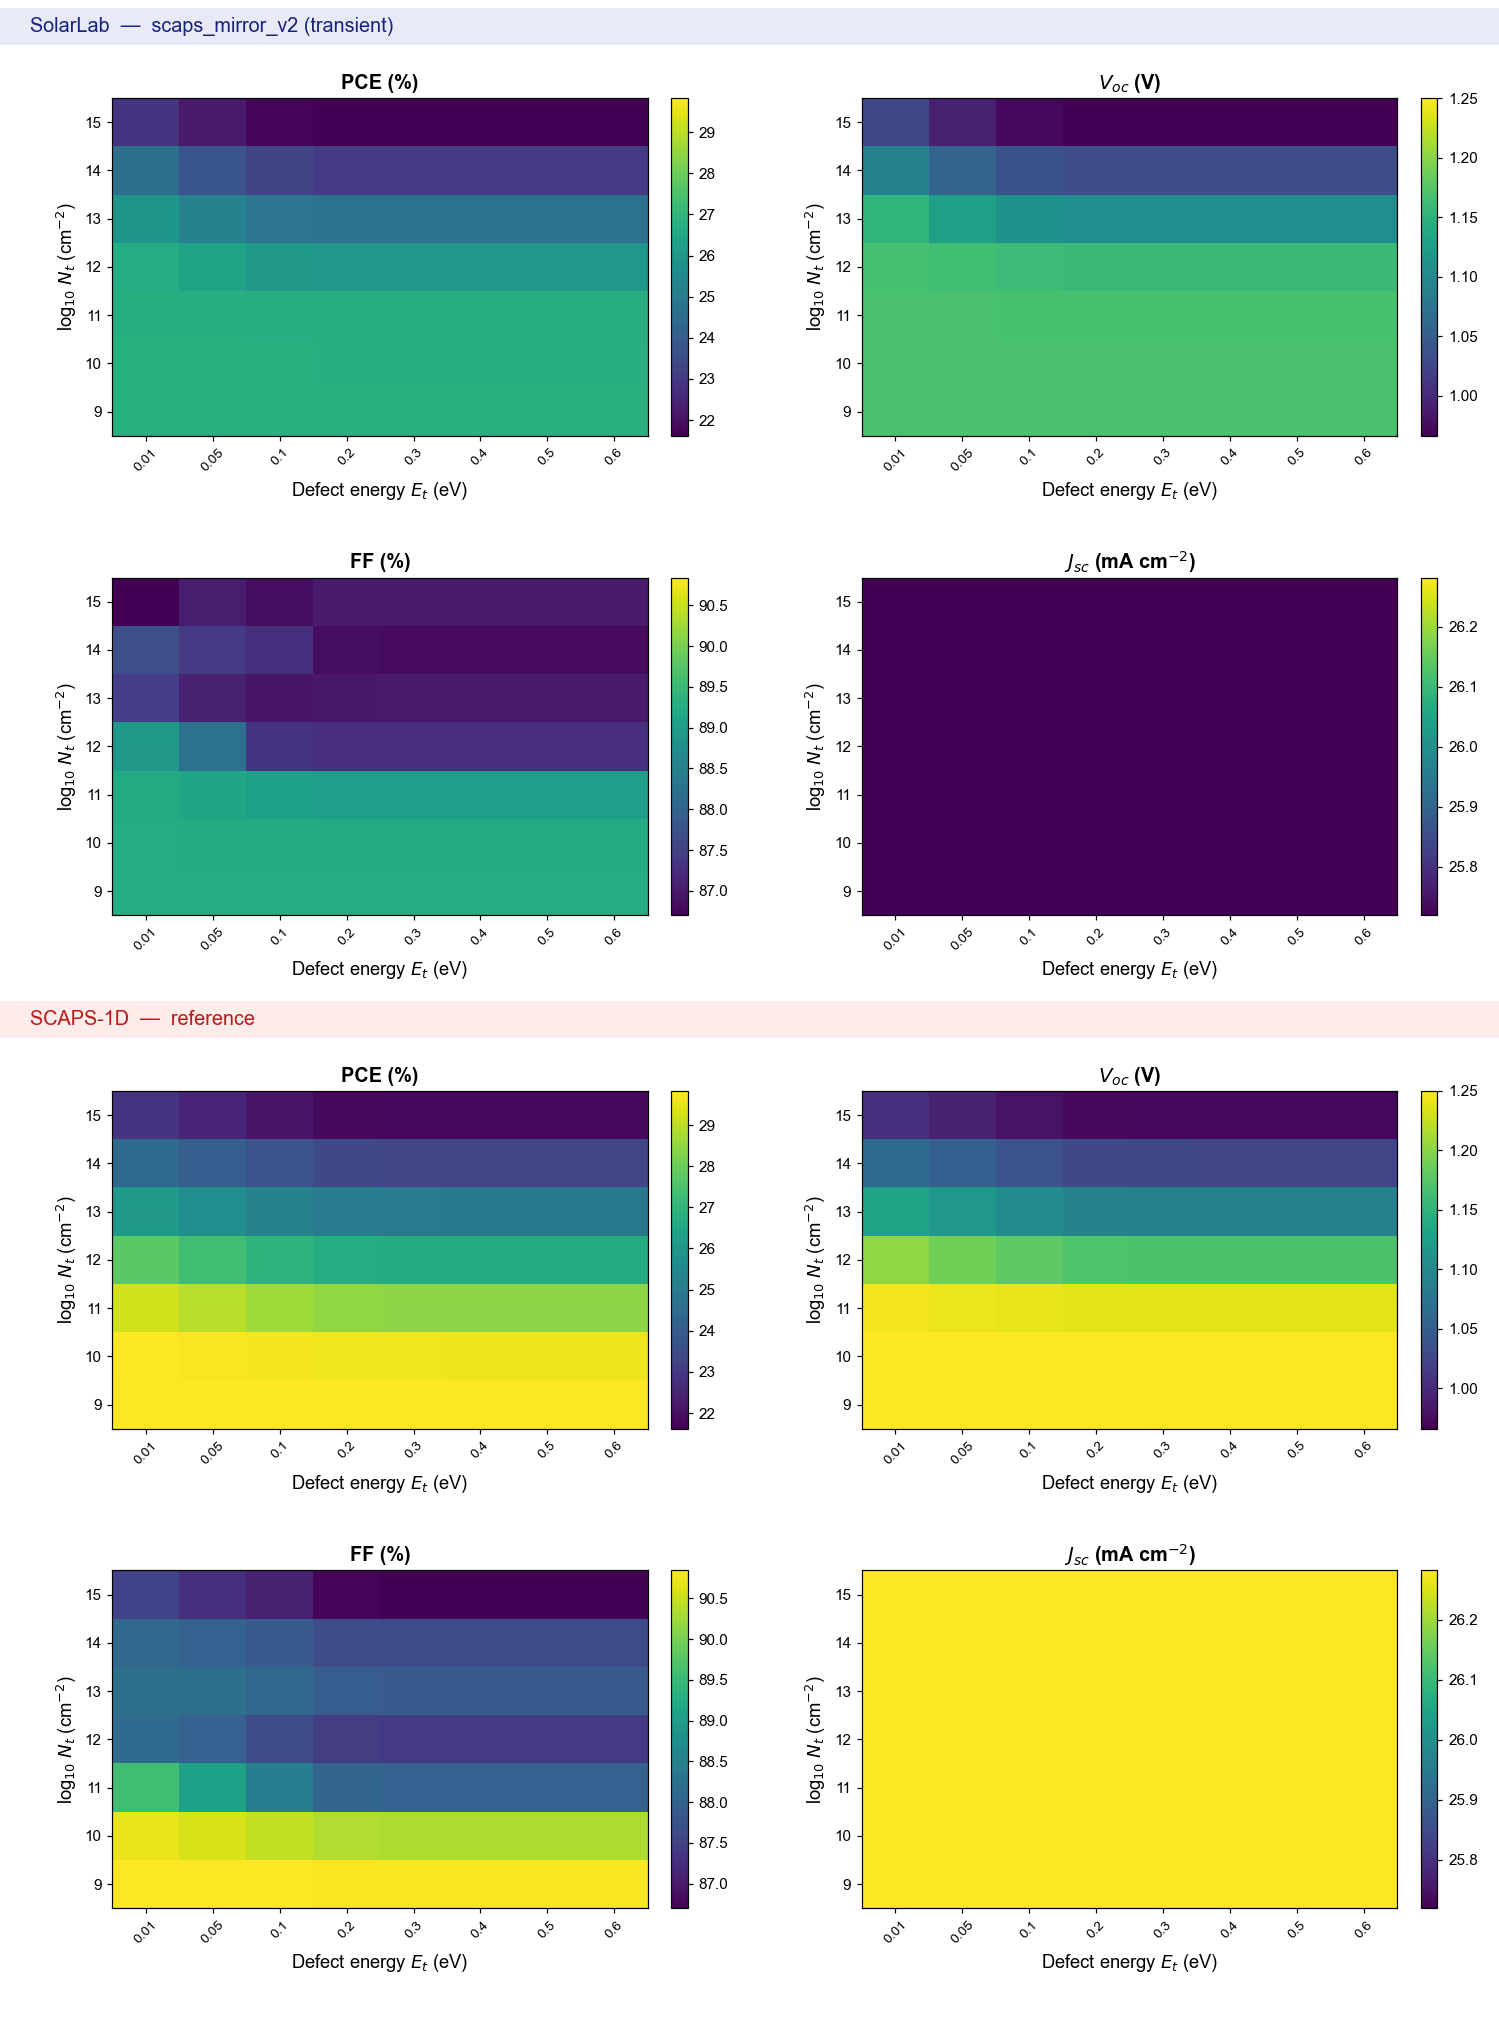
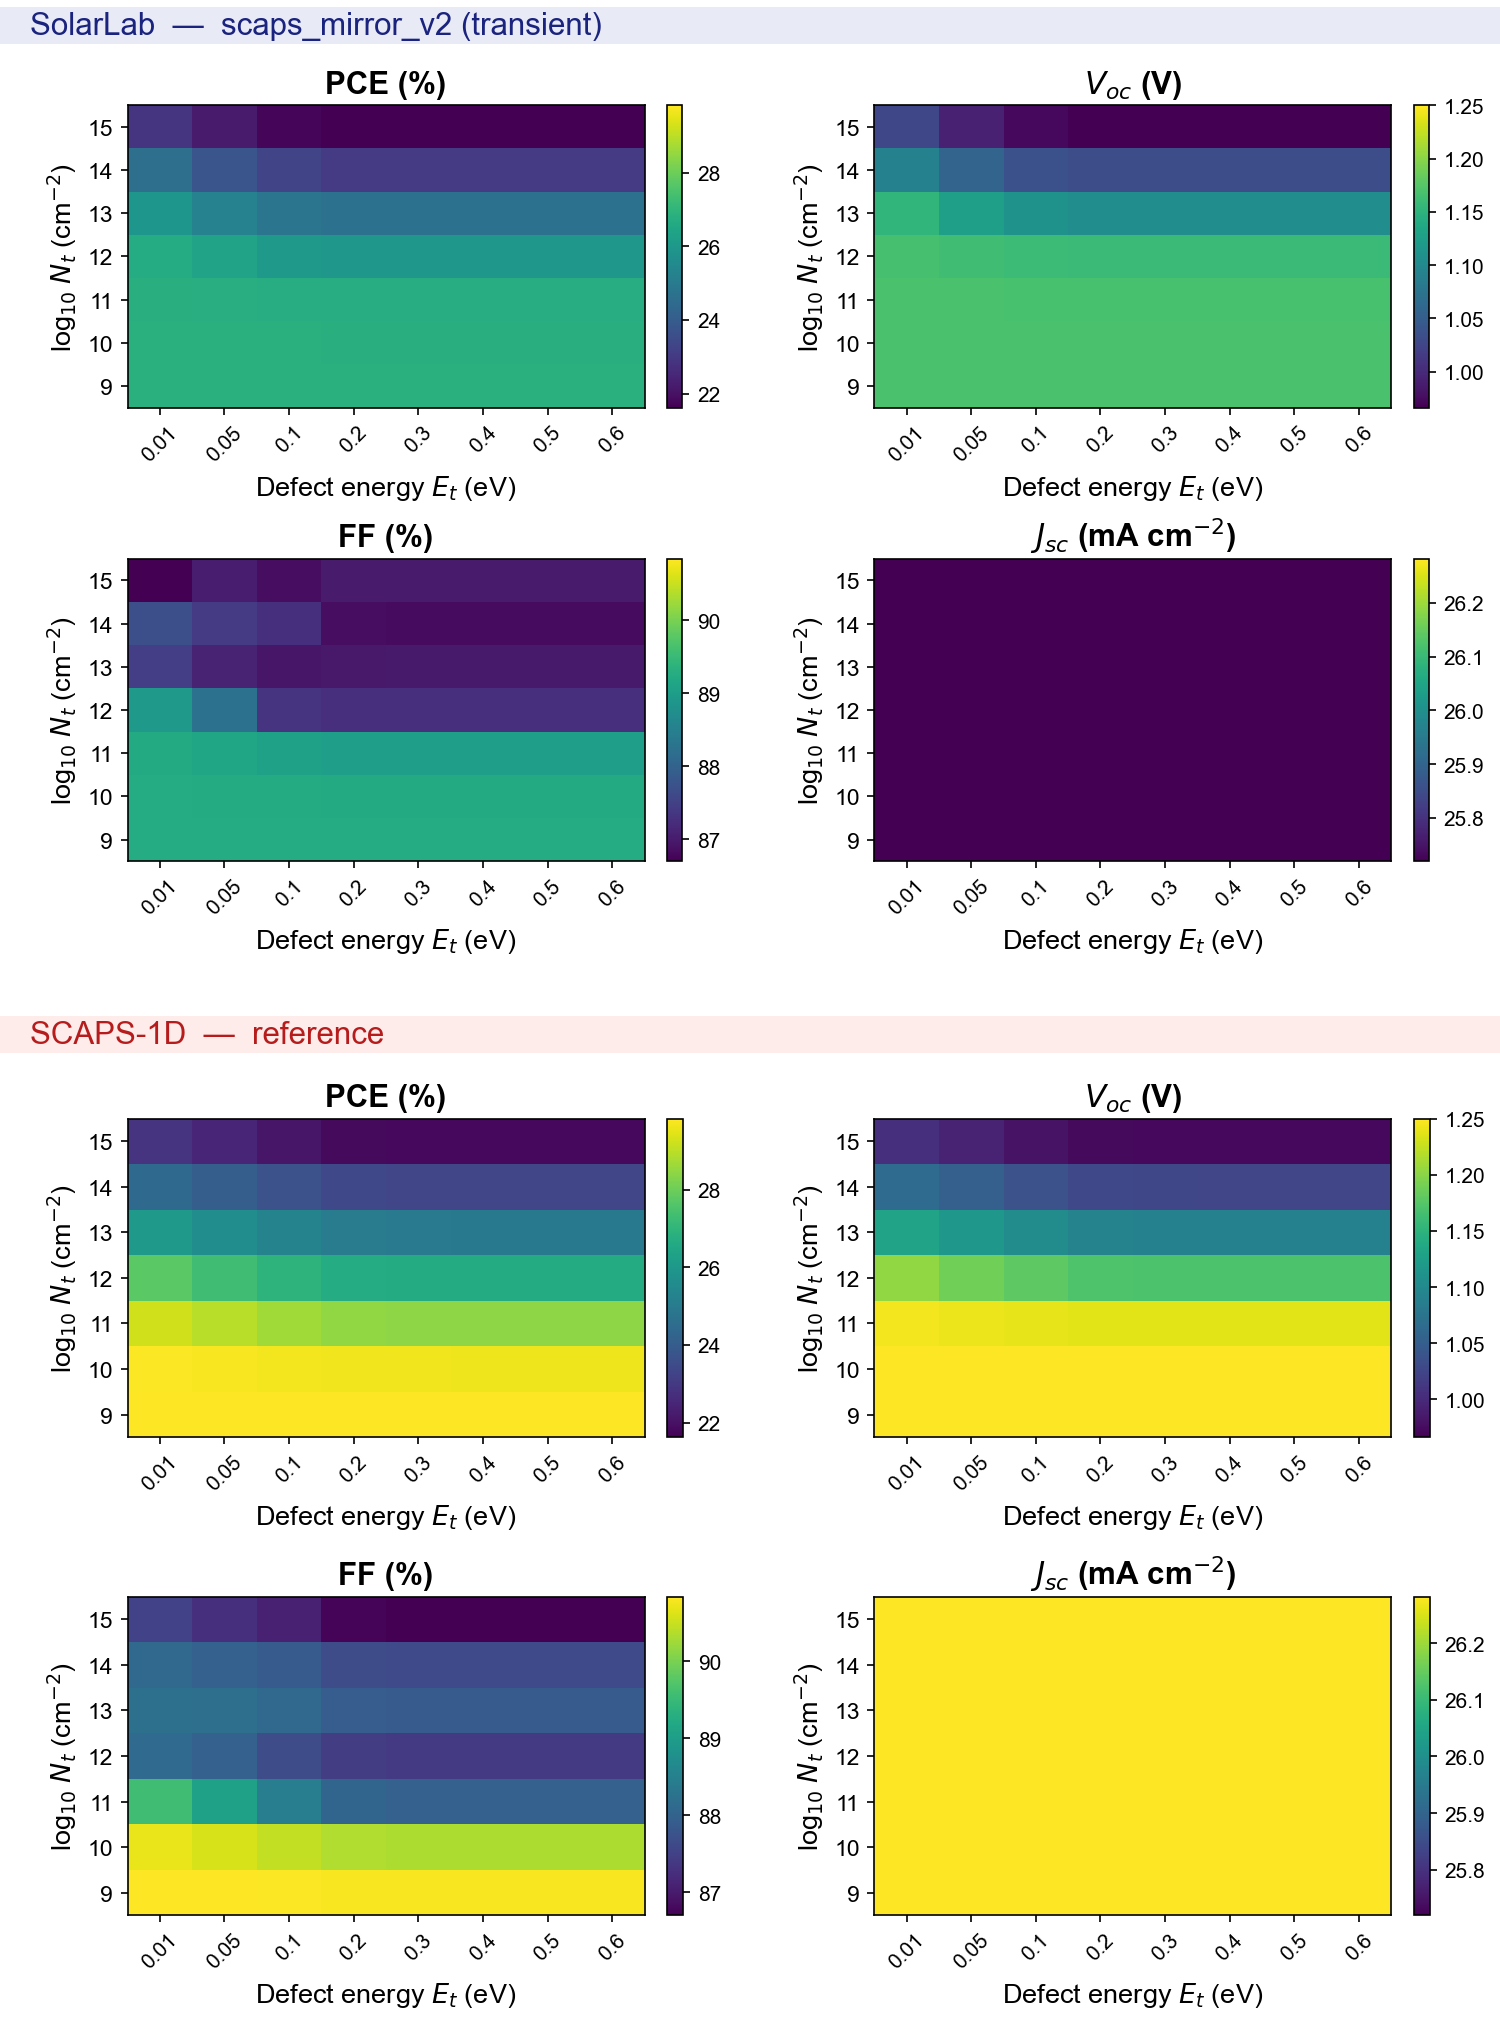
fix(reference): enlarge 2D-scan figure text for in-document legibility
Figure fonts were sized for a 13.6-inch canvas printed at 0.62 textwidth
(~4 in), leaving ~4 pt effective tick labels. Canvas reduced to 10x13.62
inches with larger fonts (titles 15 pt bold, labels 13 pt, ticks 10-11 pt,
dpi 150 keeps the 1500x2043 pixel output), and the report now places both
figures at 0.80 textwidth — chosen so heading, figure and caption still
fit one page (0.88 pushed Figure 1 to the next page, leaving a blank one).
Block spacing nudged so bottom-row x-labels clear the SCAPS banner.

Confidence: high
Scope-risk: narrow

Changed region(s): [[0.0307, 0.0, 0.491, 0.9873], [0.5217, 0.5245, 0.982, 0.9873], [0.5217, 0.0309, 1.0, 0.4936]]

diff --git a/outputs/scan2d/plot_compare.py b/outputs/scan2d/plot_compare.py
@@ -39,7 +39,7 @@ def load_grids():
 
 def draw_block(fig, top, bottom, grids, limits, xvals, xlabel):
     gs = fig.add_gridspec(2, 2, top=top, bottom=bottom,
-                          left=0.075, right=0.965, hspace=0.42, wspace=0.28)
+                          left=0.085, right=0.96, hspace=0.5, wspace=0.32)
     for k, (key, lab) in enumerate(zip(METRICS, PANEL_LABELS)):
         ax = fig.add_subplot(gs[k // 2, k % 2])
         vmin, vmax = limits[key]
@@ -47,13 +47,14 @@ def draw_block(fig, top, bottom, grids, limits, xvals, xlabel):
                            np.ma.masked_invalid(grids[key]),
                            cmap="viridis", shading="flat", vmin=vmin, vmax=vmax)
         ax.set_xticks(np.arange(len(xvals)) + 0.5)
-        ax.set_xticklabels([f"{v:g}" for v in xvals], rotation=45, fontsize=9)
+        ax.set_xticklabels([f"{v:g}" for v in xvals], rotation=45, fontsize=10)
         ax.set_yticks(np.arange(len(LOGN)) + 0.5)
-        ax.set_yticklabels(LOGN, fontsize=10)
-        ax.set_xlabel(xlabel, fontsize=12)
-        ax.set_ylabel("log$_{10}$ $N_t$ (cm$^{-2}$)", fontsize=12)
-        ax.set_title(lab, fontsize=13, fontweight="bold")
-        fig.colorbar(im, ax=ax, fraction=0.046, pad=0.04)
+        ax.set_yticklabels(LOGN, fontsize=11)
+        ax.set_xlabel(xlabel, fontsize=13)
+        ax.set_ylabel("log$_{10}$ $N_t$ (cm$^{-2}$)", fontsize=13)
+        ax.set_title(lab, fontsize=15, fontweight="bold")
+        cb = fig.colorbar(im, ax=ax, fraction=0.046, pad=0.04)
+        cb.ax.tick_params(labelsize=10)
 
 
 def draw_banner(fig, y, text, fg, bg):
@@ -63,21 +64,21 @@ def draw_banner(fig, y, text, fg, bg):
     ax.set_yticks([])
     for spine in ax.spines.values():
         spine.set_visible(False)
-    ax.text(0.02, 0.5, text, color=fg, fontsize=13, va="center", ha="left",
+    ax.text(0.02, 0.5, text, color=fg, fontsize=15, va="center", ha="left",
             transform=ax.transAxes)
 
 
 def compare_figure(sl, sc, xvals, xlabel, fname):
     limits = {k: (float(min(np.nanmin(sl[k]), np.nanmin(sc[k]))),
                   float(max(np.nanmax(sl[k]), np.nanmax(sc[k])))) for k in METRICS}
-    fig = plt.figure(figsize=(13.636, 18.573))
+    fig = plt.figure(figsize=(10.0, 13.62))
     draw_banner(fig, 0.978, "SolarLab  —  scaps_mirror_v2 (transient)",
                 fg="#1a237e", bg="#e8eaf6")
-    draw_block(fig, 0.952, 0.552, sl, limits, xvals, xlabel)
-    draw_banner(fig, 0.492, "SCAPS-1D  —  reference",
+    draw_block(fig, 0.948, 0.578, sl, limits, xvals, xlabel)
+    draw_banner(fig, 0.484, "SCAPS-1D  —  reference",
                 fg="#b71c1c", bg="#fdecea")
-    draw_block(fig, 0.466, 0.066, sc, limits, xvals, xlabel)
-    fig.savefig(OUT / fname, dpi=110)
+    draw_block(fig, 0.452, 0.062, sc, limits, xvals, xlabel)
+    fig.savefig(OUT / fname, dpi=150)
     plt.close(fig)
     print(f"wrote {OUT / fname}")
     for k in METRICS:

diff --git a/docs/reference/SolarLab2DScan.md b/docs/reference/SolarLab2DScan.md
@@ -92,7 +92,7 @@ as overall brightness shifts of a whole panel rather than as rescaled detail.
 ```{=latex}
 \begin{figure}[H]
 \centering
-\includegraphics[width=0.62\textwidth]{../../outputs/scan2d/compare_ntet.png}
+\includegraphics[width=0.80\textwidth]{../../outputs/scan2d/compare_ntet.png}
 \caption{Scan A ($N_t \times E_t$) on the perovskite/ETL interface. SolarLab (upper block) and SCAPS-1D (lower block) four-panel maps of PCE, $V_{oc}$, FF and $J_{sc}$; the vertical axis is $\log_{10} N_t$ and the horizontal axis is the trap energy $E_t$.}
 \end{figure}
 ```
@@ -117,7 +117,7 @@ recombination.
 ```{=latex}
 \begin{figure}[H]
 \centering
-\includegraphics[width=0.62\textwidth]{../../outputs/scan2d/compare_ntcbo.png}
+\includegraphics[width=0.80\textwidth]{../../outputs/scan2d/compare_ntcbo.png}
 \caption{Scan B ($N_t \times \Delta E_C$) on the perovskite/ETL interface. Panels and axes as in Figure 1, with the horizontal axis the conduction-band offset $\Delta E_C$. White cells in the SCAPS block are grid points the reference solver did not resolve.}
 \end{figure}
 ```